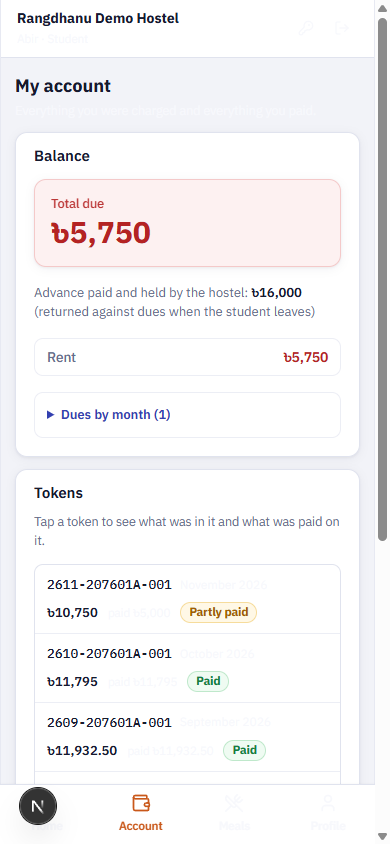
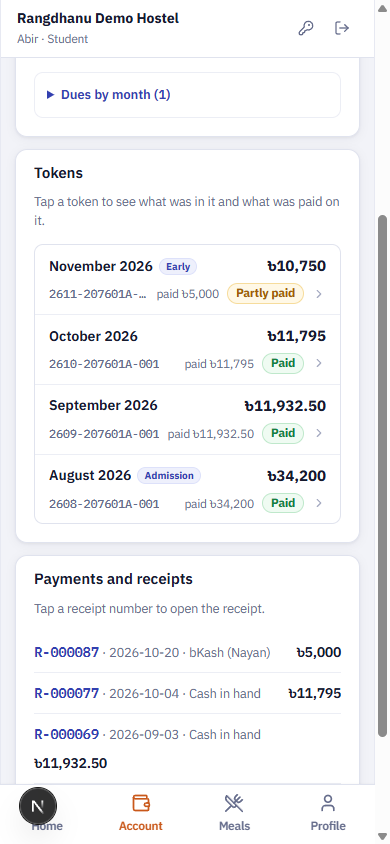
fix(ui): responsive student token detail and elegant mobile account token history

diff --git a/src/components/tokens/student-token-detail.tsx b/src/components/tokens/student-token-detail.tsx
@@ -1,0 +1,156 @@
+import { ChevronLeft, Printer } from "lucide-react";
+import Link from "next/link";
+import { notFound } from "next/navigation";
+import { HowToPay } from "@/components/student-portal/parts";
+import { Badge } from "@/components/ui/badge";
+import { Button } from "@/components/ui/button";
+import { Card, CardContent, CardHeader, CardTitle } from "@/components/ui/card";
+import { Note } from "@/components/ui/note";
+import { formatPeriod } from "@/lib/dates";
+import { formatTaka } from "@/lib/money";
+import type { METHOD_LABEL } from "@/lib/validation/payments";
+import type { SessionUser } from "@/server/auth/session";
+import { AppError } from "@/server/errors";
+import { getPrintableTokens, getTokenView } from "@/server/services/tokens";
+import { TokenCard } from "./token-card";
+import { TokenStateBadge } from "./token-status";
+
+export async function StudentTokenDetailPage({
+  actor,
+  code,
+}: {
+  actor: SessionUser;
+  code: string;
+}) {
+  let view;
+  try {
+    view = await getTokenView(actor, decodeURIComponent(code));
+  } catch (e) {
+    if (e instanceof AppError && (e.code === "NOT_FOUND" || e.code === "FORBIDDEN")) notFound();
+    throw e;
+  }
+  const { token, student } = view;
+  const printable = await getPrintableTokens(actor, { tokenId: token.id });
+  const accounts = printable.accounts;
+
+  return (
+    <div className="flex flex-col gap-3">
+      {/* Back and Action Toolbar */}
+      <div className="flex items-center justify-between gap-2">
+        <Button asChild variant="ghost" size="sm" className="h-8 px-2 -ml-2 text-muted hover:text-ink gap-1">
+          <Link href="/student/account">
+            <ChevronLeft className="size-4" />
+            <span>Account</span>
+          </Link>
+        </Button>
+        <Button asChild variant="outline" size="sm" className="h-8 gap-1.5 text-xs">
+          <Link href={`/print/tokens?token=${token.id}`} target="_blank">
+            <Printer className="size-3.5" />
+            <span>Print / PDF</span>
+          </Link>
+        </Button>
+      </div>
+
+      {/* Title & Status */}
+      <div className="flex flex-wrap items-center justify-between gap-2">
+        <div>
+          <h1 className="text-[18px] font-bold text-ink leading-tight">
+            {token.kind === "admission" ? "Admission bill" : `Bill for ${formatPeriod(token.period)}`}
+          </h1>
+          <p className="text-muted text-[12px] font-mono mt-0.5">{token.code}</p>
+        </div>
+        <div className="flex items-center gap-1.5">
+          <TokenStateBadge state={view.state} />
+          {token.early && <Badge variant="info">Early</Badge>}
+        </div>
+      </div>
+
+      {!view.isLatest && view.latestCode && (
+        <Note variant="warn" className="text-xs">
+          This is an older token. Anything unpaid here was moved to your newest token{" "}
+          <Link href={`/student/tokens/${view.latestCode}`} className="font-semibold underline">
+            {view.latestCode}
+          </Link>
+          .
+        </Note>
+      )}
+
+      {/* Responsive Paper Token: seamlessly fits phone width */}
+      <div className="w-full overflow-hidden rounded-[10px] border border-line bg-surface p-2 shadow-card">
+        <TokenCard token={printable.tokens[0]} orgName={actor.orgName} accounts={printable.accounts} />
+      </div>
+
+      {view.remainingPaisa > 0 && (
+        <div className="rounded-[10px] border border-bad-line bg-bad-bg p-3.5 flex items-center justify-between text-[13.5px]">
+          <span className="font-medium text-bad">Still unpaid from this bill:</span>
+          <span className="font-bold tabular-nums text-bad text-[16px]">{formatTaka(view.remainingPaisa)}</span>
+        </div>
+      )}
+
+      {/* Payment details list */}
+      <Card>
+        <CardHeader>
+          <CardTitle>Payment details</CardTitle>
+        </CardHeader>
+        <CardContent>
+          {view.payments.length === 0 ? (
+            <p className="text-muted text-[13px]">No payment recorded on this token yet.</p>
+          ) : (
+            <ul className="divide-line-2 flex flex-col divide-y text-[13px]">
+              {view.payments.map((p) => (
+                <li key={p.id} className="flex items-center justify-between gap-2 py-2.5">
+                  <div className="min-w-0 flex-1">
+                    <Link
+                      href={`/receipts/${p.id}`}
+                      target="_blank"
+                      className="text-brand font-mono font-bold hover:underline"
+                    >
+                      {p.receiptNo}
+                    </Link>
+                    <p className="text-muted text-[11.5px] mt-0.5 truncate">
+                      {p.paidDate} · {p.accountName}
+                      {p.trxId ? ` · ${p.trxId}` : ""}
+                    </p>
+                  </div>
+                  <div className="text-right">
+                    <span
+                      className={
+                        p.voidedAt
+                          ? "tabular-nums line-through opacity-60 text-[13px]"
+                          : "tabular-nums font-bold text-ink text-[14px]"
+                      }
+                    >
+                      {formatTaka(p.amountPaisa)}
+                    </span>
+                    {p.voidedAt && <Badge variant="destructive" className="ml-1.5 text-[10px]">Void</Badge>}
+                  </div>
+                </li>
+              ))}
+            </ul>
+          )}
+        </CardContent>
+      </Card>
+
+      {/* How to pay note */}
+      {view.remainingPaisa > 0 && accounts.length > 0 && (
+        <Card>
+          <CardHeader>
+            <CardTitle>How to pay</CardTitle>
+          </CardHeader>
+          <CardContent>
+            <HowToPay
+              accounts={view.accounts.map((a) => ({
+                id: a.id,
+                name: a.name,
+                method: a.method as keyof typeof METHOD_LABEL,
+                details: a.details,
+              }))}
+              studentCode={student.code}
+              tokenCode={token.code}
+            />
+          </CardContent>
+        </Card>
+      )}
+    </div>
+  );
+}

diff --git a/src/components/tokens/student-token-cards.tsx b/src/components/tokens/student-token-cards.tsx
@@ -1,3 +1,4 @@
+import { ChevronRight } from "lucide-react";
 import Link from "next/link";
 import { Badge } from "@/components/ui/badge";
 import { Button } from "@/components/ui/button";
@@ -72,17 +73,34 @@ export function TokenHistory({ tokens, tokensPath }: { tokens: StudentTokens; to
         <li key={t.id}>
           <Link
             href={t.code ? `${tokensPath}/${t.code}` : `/print/tokens?token=${t.id}`}
-            className="hover:bg-surface-2 flex flex-wrap items-center justify-between gap-2 px-3 py-2.5 text-[13px] transition-colors"
+            className="hover:bg-surface-2 flex flex-col gap-1.5 px-3.5 py-2.5 transition-colors"
           >
-            <span className="flex items-center gap-2">
-              <span className="font-mono font-medium text-ink">{t.code ?? "—"}</span>
-              <span className="text-muted text-[12px]">{formatPeriod(t.period)}</span>
-            </span>
-            <span className="flex items-center gap-2.5">
-              <span className="tabular-nums font-semibold text-ink">{formatTaka(t.totalPaisa)}</span>
-              <span className="text-muted text-[11.5px] tabular-nums">paid {formatTaka(t.paidHerePaisa)}</span>
-              <TokenStateBadge state={t.state} />
-            </span>
+            <div className="flex items-center justify-between gap-2">
+              <div className="flex items-center gap-1.5 min-w-0">
+                <span className="font-semibold text-ink text-[14px] truncate">{formatPeriod(t.period)}</span>
+                {t.early && (
+                  <Badge variant="info" className="text-[10px] py-0 px-1.5 shrink-0">
+                    Early
+                  </Badge>
+                )}
+                {t.kind === "admission" && (
+                  <Badge variant="info" className="text-[10px] py-0 px-1.5 shrink-0">
+                    Admission
+                  </Badge>
+                )}
+              </div>
+              <span className="tabular-nums font-bold text-ink text-[15px] shrink-0">{formatTaka(t.totalPaisa)}</span>
+            </div>
+            <div className="flex items-center justify-between gap-2 text-[12px]">
+              <span className="font-mono text-muted text-[11.5px] truncate">{t.code ?? "—"}</span>
+              <div className="flex items-center gap-2 shrink-0">
+                {t.paidHerePaisa > 0 && (
+                  <span className="text-muted tabular-nums text-[11.5px]">paid {formatTaka(t.paidHerePaisa)}</span>
+                )}
+                <TokenStateBadge state={t.state} />
+                <ChevronRight className="size-3.5 text-faint" />
+              </div>
+            </div>
           </Link>
         </li>
       ))}

diff --git a/src/app/receipts/[paymentId]/page.tsx b/src/app/receipts/[paymentId]/page.tsx
@@ -60,10 +60,8 @@ export default async function ReceiptPage({ params }: { params: Promise<{ paymen
               This payment was voided on {payment.voidedAt!.toISOString().slice(0, 10)}: {payment.voidReason}
             </Note>
           )}
-          <div className="overflow-x-auto">
-            <div className="min-w-[560px]">
-              <TokenCard token={token} orgName={user.orgName} accounts={accounts} highlightPaymentId={payment.id} />
-            </div>
+          <div className="w-full overflow-hidden rounded-[8px] border border-line bg-surface p-2 shadow-xs">
+            <TokenCard token={token} orgName={user.orgName} accounts={accounts} highlightPaymentId={payment.id} />
           </div>
           {user.role === "admin" && !voided && (
             <div className="mt-6 print:hidden">

diff --git a/src/app/student/tokens/[code]/page.tsx b/src/app/student/tokens/[code]/page.tsx
@@ -1,5 +1,5 @@
 import type { Metadata } from "next";
-import { TokenDetailPage } from "@/components/tokens/token-pages";
+import { StudentTokenDetailPage } from "@/components/tokens/student-token-detail";
 import { requireRole } from "@/server/auth/session";
 
 export const metadata: Metadata = { title: "Token" };
@@ -7,5 +7,5 @@ export const metadata: Metadata = { title: "Token" };
 export default async function Page({ params }: { params: Promise<{ code: string }> }) {
   const actor = await requireRole("student");
   const { code } = await params;
-  return <TokenDetailPage actor={actor} basePath="/student/tokens" code={code} />;
+  return <StudentTokenDetailPage actor={actor} code={code} />;
 }

diff --git a/src/components/student-portal/parts.tsx b/src/components/student-portal/parts.tsx
@@ -94,10 +94,8 @@ export function TokenView({
         <p className="font-mono text-[14px] font-bold text-ink">{token.code}</p>
         <TokenStateBadge state={state} />
       </div>
-      <div className="overflow-x-auto rounded-[8px] border border-line bg-surface p-2">
-        <div className="min-w-[480px]">
-          <TokenCard token={token} orgName={orgName} accounts={accounts} />
-        </div>
+      <div className="w-full overflow-hidden rounded-[8px] border border-line bg-surface p-2 shadow-xs">
+        <TokenCard token={token} orgName={orgName} accounts={accounts} />
       </div>
       {state !== "paid" && (
         <p className="text-[13px] text-ink-2">

diff --git a/src/components/tokens/token-pages.tsx b/src/components/tokens/token-pages.tsx
@@ -433,7 +433,7 @@ export async function TokenDetailPage({
       <div className="grid gap-6 lg:grid-cols-5">
         <div className="flex flex-col gap-6 lg:col-span-3">
           <div className="overflow-x-auto">
-            <div className="min-w-[560px]">
+            <div className="w-full max-w-[560px]">
               <TokenCard token={printable.tokens[0]} orgName={actor.orgName} accounts={printable.accounts} />
             </div>
           </div>
